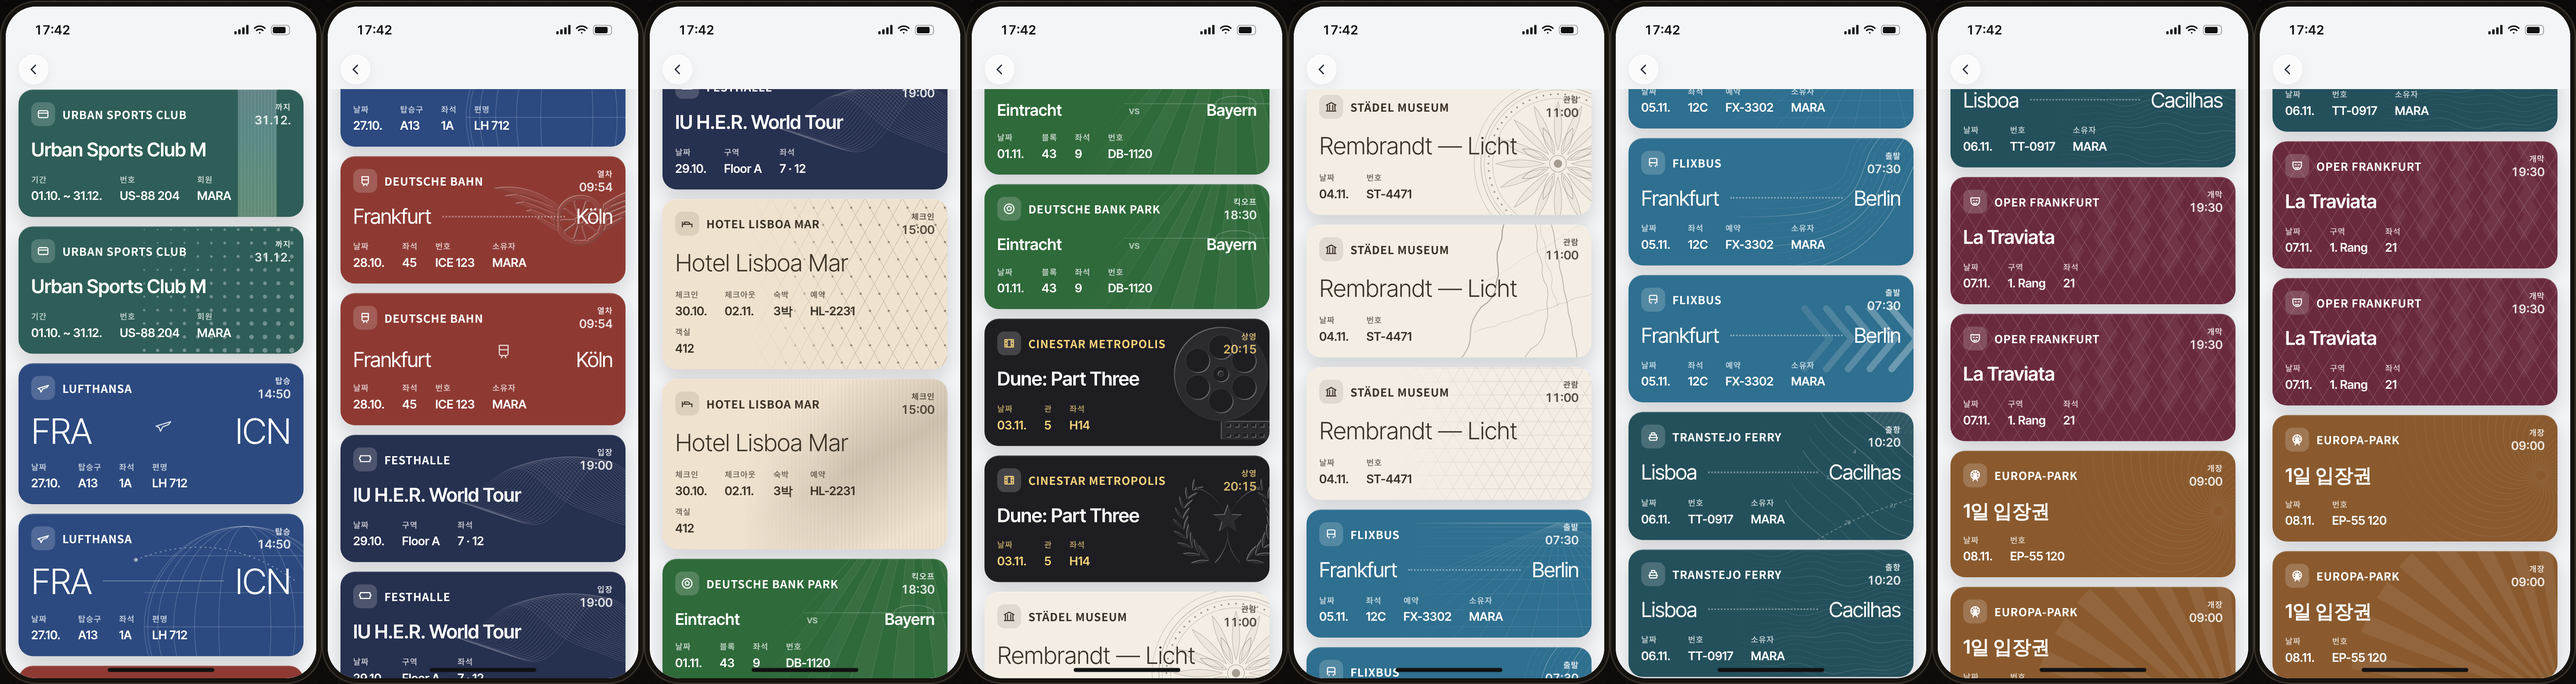
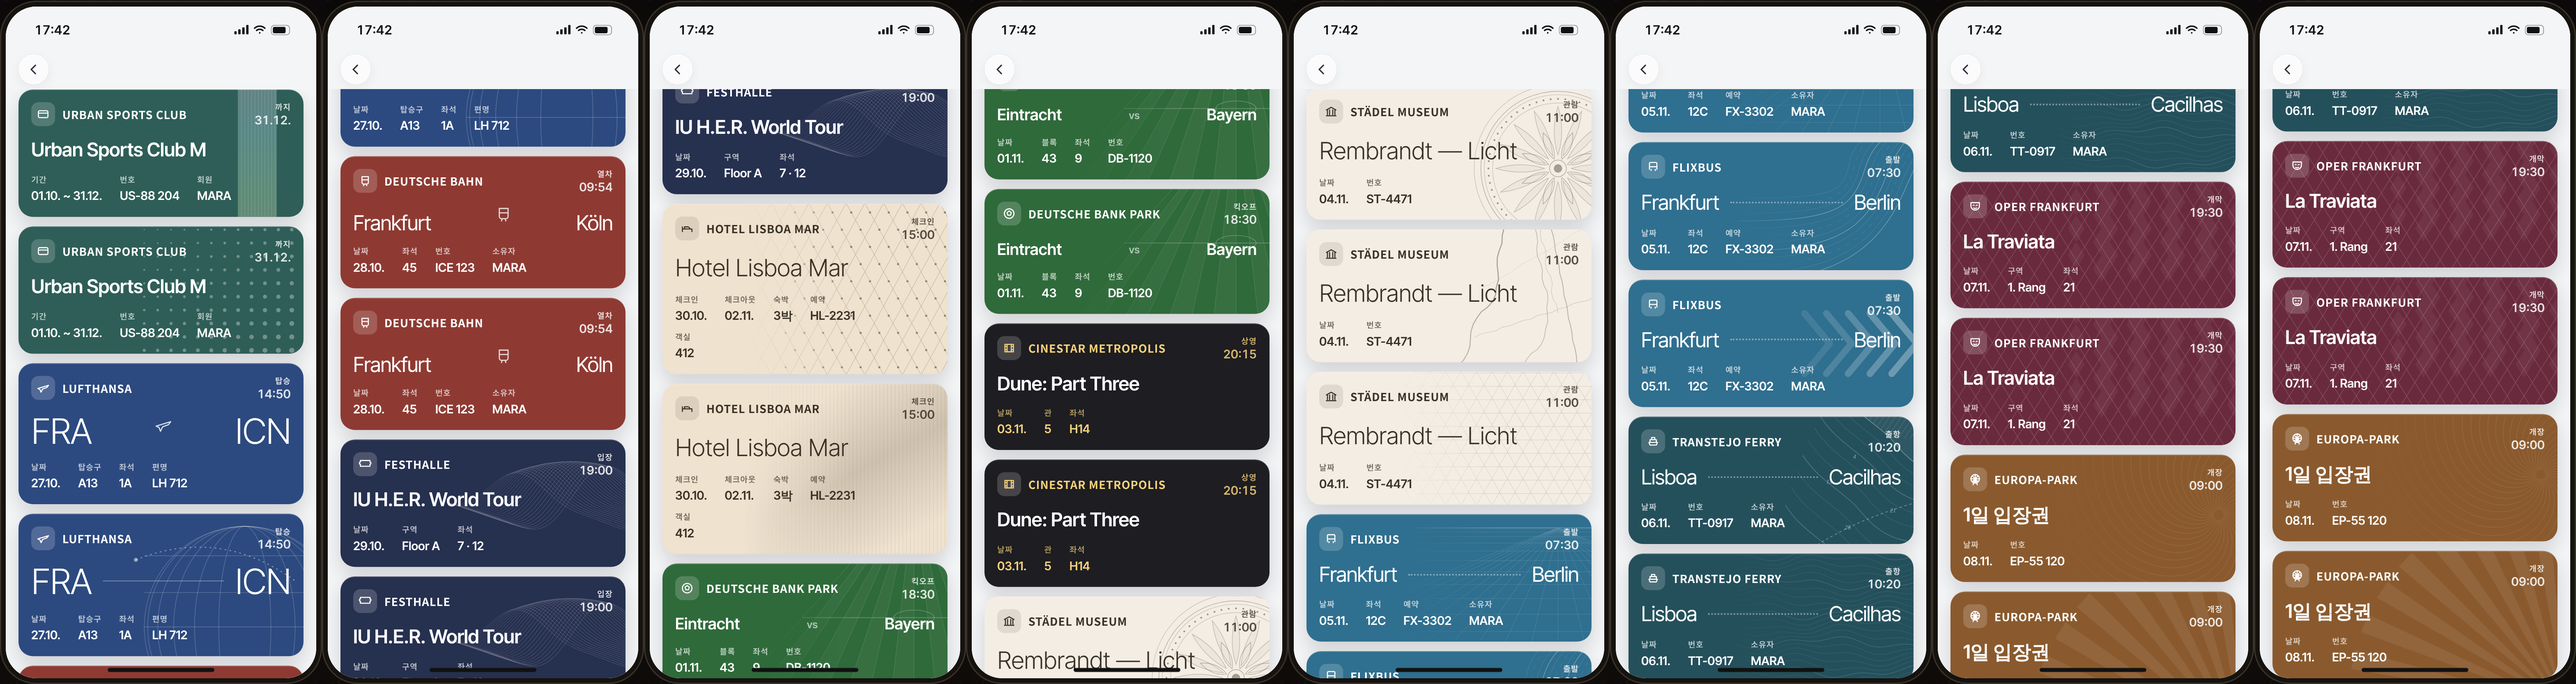
Wallet passes: take out the embossed marks, none was chosen; train and movie stay plain (draft, not approved yet)
Claude-Session: https://claude.ai/code/session_01TBUyc4nvbfrUF2uL1hRtAL

diff --git a/src/phonepassart.js b/src/phonepassart.js
@@ -21,17 +21,6 @@ const holo = (fg, op, u) => `<defs><linearGradient id="${u}h" x1="0" y1="0" x2="
 // ---- each kind a finely built texture of its own, faded in from the left so the words stay clear
 const fadeIn = (u, inner) => `<defs><linearGradient id="${u}f" x1="0" x2="1"><stop offset=".3" stop-color="#fff" stop-opacity="0"/><stop offset=".62" stop-color="#fff"/></linearGradient><mask id="${u}m"><rect x="-20" y="-20" width="400" height="260" fill="url(#${u}f)"/></mask></defs><g mask="url(#${u}m)">${inner}</g>`;
 const Z = (fg, op, k = 1, w = 0.7) => S(fg, op * k, w);
-// train: the winged wheel of the railways, spoked wheel between two swept wings of five feathers each
-const train = (fg, op, u) => { const cx = 286, cy = 100;
-    let d = disc(cx, cy, 30) + disc(cx, cy, 24) + disc(cx, cy, 7) + disc(cx, cy, 3);
-    for (let i = 0; i < 10; i++) { const a = i * PI / 5; d += bar(...pt(cx, cy, 6, a), ...pt(cx, cy, 25, a), 2.6); }
-    for (const s of [-1, 1]) for (let k = 0; k < 5; k++) { const bx = cx + s * 27, by = cy - 16 + k * 7, tx = cx + s * (104 - k * 13), ty = cy - 38 + k * 9, mx = (bx + tx) / 2;
-        d += `M${bx} ${r1(by - 2.6)}Q${r1(mx)} ${r1(ty - 8)} ${r1(tx)} ${r1(ty)}Q${r1(mx + s * 6)} ${r1(ty + 6)} ${bx} ${r1(by + 2.6)}Z`; }
-    return emb(u, fg, `<path d="${d}"/>`); };
-// concert: a studio microphone, the capsule with its grille, the yoke, the stand and its base
-const rings = (fg, op, u) => { const cx = 290; let g = `M${cx - 26} 46a26 26 0 0 1 52 0V96a26 26 0 0 1 -52 0Z`;
-    for (let i = 0; i < 7; i++) g += `M${cx - 17} ${40 + i * 9}h34v3.2h-34Z`;
-    return emb(u, fg, `<path d="${g}"/><path d="M${cx - 36} 82v14a36 36 0 0 0 72 0v-14" fill="none" stroke="#000" stroke-width="4"/><path d="M${cx - 2} 132h4v34h-4ZM${cx - 30} 166h60a4 4 0 0 1 0 8h-60a4 4 0 0 1 0 -8Z"/>`); };
 // concert: a sound ribbon, many sine lines in shifted phase twisting into one band
 const spots = (fg, op, u) => fadeIn(u, range(0, 26).map(j => { const ph = j * 0.12; return `<path d="M${range(0, 61).map(i => { const x = 130 + i * 5, t = i / 60; return `${r1(x)} ${r1(100 + (42 * sin(t * PI * 2.2 + ph) + 10 * cos(t * PI * 5 + ph * 2)) * sin(t * PI))}`; }).join('L')}" ${Z(fg, op, 1, 0.5)}/>`; }).join(''));
 // hotel: a tufted headboard, quilted lines with a button at each crossing
@@ -40,26 +29,10 @@ const windows = (fg, op, u) => { let d = '', dots = ''; for (let i = -8; i < 14;
     return fadeIn(u, P(d, Z(fg, op, 1, 0.5)) + dots); };
 // hotel: satin, fine pinstripes under one soft sheen
 const doors = (fg, op, u) => fadeIn(u, `<defs><linearGradient id="${u}s" x1="0" y1="0" x2="1" y2="1"><stop offset=".3" stop-color="${fg}" stop-opacity="0"/><stop offset=".55" stop-color="${fg}" stop-opacity="${r1(op * 0.7 * 100) / 100}"/><stop offset=".8" stop-color="${fg}" stop-opacity="0"/></linearGradient></defs><rect x="0" y="-10" width="400" height="220" fill="url(#${u}s)"/>` + P(range(0, 60).map(i => `M${130 + i * 4.5} -10V210`).join(''), Z(fg, op, 0.55, 0.4)));
-// match: a club crest, shield with an inner border, a star over a chevron, three small stars above
-const pitch = (fg, op, u) => { const sh = (x0, x1, y0, y1) => { const m = (x0 + x1) / 2; return `M${x0} ${y0}H${x1}V${y1 - 40}C${x1} ${y1 - 12} ${m + 16} ${y1 - 4} ${m} ${y1}C${m - 16} ${y1 - 4} ${x0} ${y1 - 12} ${x0} ${y1 - 40}Z`; };
-    const d = sh(244, 336, 44, 172) + sh(252, 328, 52, 162) + star(290, 92, 20, 8) + `M262 132L290 116L318 132V140L290 124L262 140Z` + star(266, 32, 6, 2.4) + star(290, 28, 7, 2.8) + star(314, 32, 6, 2.4);
-    return emb(u, fg, `<path d="${d}"/>`); };
 // match: the pitch seen from the stand, mown stripes in perspective with their fine edges
 const bowl = (fg, op, u) => { const vx = 300, vy = -60, x = (x0, y) => r1(vx + (x0 - vx) * (y - vy) / (210 - vy)); let st = '', ln = '';
     for (let i = 0; i < 16; i++) { const a = 60 + i * 30, b = a + 30, y0 = 20; ln += `M${x(a, y0)} ${y0}L${a} 210`; if (i % 2) st += `M${x(a, y0)} ${y0}L${a} 210H${b}L${x(b, y0)} ${y0}Z`; }
     return fadeIn(u, P(st, F(fg, 0.04)) + P(ln, Z(fg, op, 0.8, 0.5)) + P(`M${x(60, 20)} 20H${x(540, 20)}M${x(60, 90)} 90H${x(540, 90)}`, Z(fg, op, 1.3, 0.8)) + `<ellipse cx="${vx}" cy="90" rx="${r1((x(540, 90) - x(60, 90)) * 0.09)}" ry="9" ${Z(fg, op, 1.3, 0.8)}/>`); };
-// movie: a film reel, six windows round the hub, the strip running off it with its sprocket holes
-const beam = (fg, op, u) => { const cx = 282, cy = 90; let d = disc(cx, cy, 56) + disc(cx, cy, 9) + disc(cx, cy, 4);
-    for (let i = 0; i < 6; i++) { const [x, y] = pt(cx, cy, 32, i * PI / 3 + PI / 6); d += disc(x, y, 14); }
-    let s = `M${cx} ${cy + 56}H360V${cy + 78}H${cx}Z`; for (let i = 0; i < 8; i++) s += `M${cx + 6 + i * 10} ${cy + 59}h5v4h-5ZM${cx + 6 + i * 10} ${cy + 71}h5v4h-5Z`;
-    return emb(u, fg, `<path d="${d}"/><path d="${s}"/>`); };
-// movie: the festival laurel, two branches of paired leaves closing round a star
-const premiere = (fg, op, u) => { const cx = 290, cy = 100, R = 54; let d = star(cx, cy, 18, 7.5);
-    for (const s of [-1, 1]) { d += `M${M(pt(cx, cy, R - 1.2, PI / 2 + s * 0.28))}A${R - 1.2} ${R - 1.2} 0 0 ${s < 0 ? 1 : 0} ${M(pt(cx, cy, R - 1.2, PI / 2 + s * 2.35))}L${M(pt(cx, cy, R + 1.2, PI / 2 + s * 2.35))}A${R + 1.2} ${R + 1.2} 0 0 ${s < 0 ? 0 : 1} ${M(pt(cx, cy, R + 1.2, PI / 2 + s * 0.28))}Z`;
-        for (let k = 0; k < 9; k++) { const a = PI / 2 + s * (0.42 + k * 0.23), [x, y] = pt(cx, cy, R, a), tg = a + s * PI / 2, sz = 11 - k * 0.5;
-            for (const side of [-1, 1]) { const dir = tg + side * 0.55, [ex, ey] = [x + cos(dir) * sz * 2, y + sin(dir) * sz * 2], [mx, my] = [x + cos(dir) * sz, y + sin(dir) * sz], nx = -sin(dir) * sz * 0.38, ny = cos(dir) * sz * 0.38;
-                d += `M${r1(x)} ${r1(y)}Q${r1(mx + nx)} ${r1(my + ny)} ${r1(ex)} ${r1(ey)}Q${r1(mx - nx)} ${r1(my - ny)} ${r1(x)} ${r1(y)}Z`; } } }
-    return emb(u, fg, `<path d="${d}"/>`); };
 // museum: an isometric lattice, the floor of a gallery drawn in fine triangles
 const columns = (fg, op, u) => { let d = ''; const h = 16; for (let i = -20; i < 30; i++) d += `M${130 + i * h * 1.1547} -10l${r1(220 * 0.57735)} 220M${130 + i * h * 1.1547} 210l${r1(220 * 0.57735)} -220`; for (let y = -10; y < 214; y += h) d += `M130 ${y}H420`; return fadeIn(u, P(d, Z(fg, op, 0.8, 0.4))); };
 // museum: marble, veins branching in fine lines of a few weights
@@ -70,38 +43,10 @@ const route = (fg, op, u) => { const vx = 300, vy = 40, ts = range(1, 14).map(k 
 // bus: a motorway flyover from above, lanes sweeping round in parallel curves, the dashes between them
 const lanes = (fg, op, u) => { const lane = k => `M130 ${190 - k * 9}C250 ${190 - k * 9} ${300 - k * 4} ${150 - k * 6} ${330 - k * 6} ${80 - k * 3}S${380 - k * 6} -10 ${420} ${-20 + k * 6}`;
     return fadeIn(u, range(0, 12).map(k => P(lane(k), Z(fg, op, k % 4 === 0 ? 1.5 : 0.7, k % 4 === 0 ? 0.8 : 0.5) + (k % 4 === 2 ? ' stroke-dasharray="6 6"' : ''))).join('')); };
-// ferry: a ship's wheel, the rim, eight spokes running through to turned handles, the hub
-const waves = (fg, op, u) => { const cx = 290, cy = 100; let d = disc(cx, cy, 48) + disc(cx, cy, 40) + disc(cx, cy, 12) + disc(cx, cy, 5);
-    for (let i = 0; i < 8; i++) { const a = i * PI / 4; d += bar(...pt(cx, cy, 11, a), ...pt(cx, cy, 41, a), 4) + bar(...pt(cx, cy, 47, a), ...pt(cx, cy, 58, a), 4.5);
-        const [x, y] = pt(cx, cy, 66, a); d += `M${M(pt(cx, cy, 58, a + 0.1))}L${M(pt(cx, cy, 58, a - 0.1))}L${M(pt(x, y, 4.5, a - PI / 2))}A4.5 4.5 0 0 1 ${M(pt(x, y, 4.5, a + PI / 2))}Z`; }
-    return emb(u, fg, `<path d="${d}"/>`); };
 // ferry: water seen from above, swell drawn as many fine lines that ride over one another
 const depths = (fg, op, u) => fadeIn(u, range(0, 34).map(r => { const y0 = -10 + r * 7; return `<path d="M${range(0, 55).map(i => { const x = 130 + i * 5; return `${x} ${r1(y0 + 5 * sin(x * 0.035 + r * 0.45) + 3 * sin(x * 0.09 - r * 0.3))}`; }).join('L')}" ${Z(fg, op, r % 5 === 0 ? 1.2 : 0.6, 0.45)}/>`; }).join(''));
-// theater: a lyre, two curving arms, the crossbar, five strings and the base
-const arches = (fg, op, u) => { const cx = 290; let arms = '';
-    for (const s of [-1, 1]) arms += `M${cx + s * 10} 160C${cx + s * 40} 154 ${cx + s * 46} 116 ${cx + s * 34} 92C${cx + s * 26} 76 ${cx + s * 30} 56 ${cx + s * 44} 46`;
-    const strings = range(0, 5).map(i => `M${cx - 12 + i * 6} 72V156`).join('');
-    return emb(u, fg, `<path d="${arms}" fill="none" stroke="#000" stroke-width="6" stroke-linecap="round"/><path d="M${cx - 44} 66h88v6h-88Z"/><path d="${strings}" fill="none" stroke="#000" stroke-width="1.4"/><path d="M${cx - 26} 156h52a5 5 0 0 1 0 10h-52a5 5 0 0 1 0 -10Z"/>`
-        + `<path d="${disc(cx - 44, 44, 5) + disc(cx + 44, 44, 5)}"/>`); };
-// theater: the proscenium, an arch on two fluted pilasters with a keystone, over the stage step
-const diamonds = (fg, op, u) => { const cx = 282, w = 42, top = 100;
-    let d = `M${cx - w - 10} 168V${top}A${w + 10} ${w + 10} 0 0 1 ${cx + w + 10} ${top}V168H${cx + w}V${top}A${w} ${w} 0 0 0 ${cx - w} ${top}V168Z` + `M${cx - 8} ${top - w - 12}h16l-3 16h-10Z`;
-    for (const s of [-1, 1]) { const x = cx + s * (w + 5); d += `M${x - 9} 168h18v4h-18Z`; for (let i = 0; i < 3; i++) d += `M${x - 5 + i * 4} ${top + 6}h1.6v${158 - top}h-1.6Z`; }
-    return emb(u, fg, `<path d="${d}"/><path d="M${cx - w - 22} 174h${2 * w + 44}v6h-${2 * w + 44}Z"/>`); };
 // theme park: a swirl, many fine lines turning out from one point like a spinning ride
 const wheel = (fg, op, u) => { const cx = 320, cy = 96; return fadeIn(u, range(0, 36).map(j => { const a0 = j * PI / 18; return `<path d="M${range(0, 41).map(i => { const t = i / 40, r = 6 + t * 190, a = a0 + t * 2.6; return M(pt(cx, cy, r, a)); }).join('L')}" ${Z(fg, op, 0.7, 0.45)}/>`; }).join('')); };
-// theme park: a scalloped seal, a ring inside and a star at its heart, like the stamp on a day pass
-const coaster = (fg, op, u) => { const cx = 290, cy = 100; let o = '';
-    for (let i = 0; i < 28; i++) { const a = i * PI / 14, b = (i + 1) * PI / 14; o += `${i ? '' : `M${M(pt(cx, cy, 60, a))}`}Q${M(pt(cx, cy, 68, (a + b) / 2))} ${M(pt(cx, cy, 60, b))}`; }
-    return emb(u, fg, `<path d="${o}Z${disc(cx, cy, 50)}${disc(cx, cy, 46)}${star(cx, cy, 30, 12)}"/>`); };
-// ---- embossed emblems: one carefully built mark per kind, pressed into the card (a lit edge, a shadowed edge, a faint face)
-const emb = (u, fg, inner) => `<defs><filter id="${u}x" x="-20%" y="-20%" width="140%" height="140%"><feFlood flood-color="${fg}" flood-opacity=".06"/><feComposite in2="SourceAlpha" operator="in" result="F"/>`
-    + `<feOffset in="SourceAlpha" dx=".9" dy=".9" result="a"/><feComposite in="SourceAlpha" in2="a" operator="out" result="ha"/><feFlood flood-color="#fff" flood-opacity=".3"/><feComposite in2="ha" operator="in" result="H"/>`
-    + `<feOffset in="SourceAlpha" dx="-.9" dy="-.9" result="b"/><feComposite in="SourceAlpha" in2="b" operator="out" result="sa"/><feFlood flood-color="#000" flood-opacity=".34"/><feComposite in2="sa" operator="in" result="L"/>`
-    + `<feMerge><feMergeNode in="F"/><feMergeNode in="H"/><feMergeNode in="L"/></feMerge></filter></defs><g filter="url(#${u}x)" fill="#000" fill-rule="evenodd">${inner}</g>`;
-const disc = (cx, cy, r) => `M${r1(cx - r)} ${cy}a${r} ${r} 0 1 0 ${r1(2 * r)} 0a${r} ${r} 0 1 0 ${r1(-2 * r)} 0Z`;
-const star = (cx, cy, R, r, n = 5, rot = -PI / 2) => `M${range(0, n * 2).map(i => M(pt(cx, cy, i % 2 ? r : R, rot + i * PI / n))).join('L')}Z`;
-const bar = (x0, y0, x1, y1, w) => { const dx = x1 - x0, dy = y1 - y0, Ln = Math.hypot(dx, dy), nx = -dy / Ln * w / 2, ny = dx / Ln * w / 2; return `M${r1(x0 + nx)} ${r1(y0 + ny)}L${r1(x1 + nx)} ${r1(y1 + ny)}L${r1(x1 - nx)} ${r1(y1 - ny)}L${r1(x0 - nx)} ${r1(y0 - ny)}Z`; };
 // theater: a harlequin of tall diamonds, every other one shaded (chosen from mockup 10)
 const harlequin = (fg, op) => {
     const w = 20, h = 32; let fill = '';
@@ -134,10 +79,9 @@ const chevrons = (fg, op) => range(0, 5).map(i => `<path d="M${210 + i * 26} 64L
 // theme park: a sunburst from the bottom right corner, every other ray filled (chosen from mockup 10)
 const sunburst = (fg, op) => range(0, 9).map(i => { const a0 = PI + i * PI / 18, a1 = a0 + PI / 36; return `<path d="M350 210L${M(pt(350, 210, 260, a0))}L${M(pt(350, 210, 260, a1))}Z" fill="${fg}" fill-opacity="${r1(op * 0.35 * 100) / 100}"/>`; }).join('');
 const LN = (fg, op, k, w) => `stroke="${fg}" stroke-opacity="${r1(op * k * 100) / 100}" stroke-width="${w}" fill="none"`;
-// what 소망 chose, kind by kind; null is the plain look (no drawing). The train and movie marks and the concert, match and theater
-// singles are the only ones not circled yet
-const MOTIF = { flight: [flight, null], train: [train, null], membership: [dots, holo], other: [dots], concert: [spots], hotel: [windows, doors], match: [bowl],
-    movie: [beam, premiere], museum: [rosette, columns, rosetteP], bus: [route, lanes, chevrons], ferry: [depths, seaChart], theater: [harlequin], park: [wheel, sunburst] };
+// what 소망 chose, kind by kind; null is the plain look (no drawing). The train and the movie have no drawing chosen yet
+const MOTIF = { flight: [flight, null], train: [null], membership: [dots, holo], other: [dots], concert: [spots], hotel: [windows, doors], match: [bowl],
+    movie: [null], museum: [rosette, columns, rosetteP], bus: [route, lanes, chevrons], ferry: [depths, seaChart], theater: [harlequin], park: [wheel, sunburst] };
 const seedOf = id => [...String(id || '')].reduce((h, c) => h + c.charCodeAt(0), 0);
 export function passMotif(k, fg, op, id) {
     const xs = MOTIF[k] || MOTIF.other, f = xs[seedOf(id) % xs.length];

diff --git a/docs/DESIGN.md b/docs/DESIGN.md
@@ -234,7 +234,7 @@
   - `cardArt` / `cardLook`예요. 은행 색은 `BANK_C`(은행 이름 해시로 고름)예요. **목록에서 하나를 빼면 다른 은행 색이 전부 밀려요.** 빼지 말고 자리에 다른 색을 넣어요.
   - 무늬 `PATS`도 같아요. 사선 줄무늬는 빼고 그 자리에 물결을 넣었어요.
 - 표가 끝났는지는 `PASS_OVER`(phonesyncmoney.js)로 봐요("미사용 · 환불 불가"는 안 끝남). 날짜를 모르는 표(`dayUnknown`)는 "날짜 미정", 날짜로 지난 표가 되지 않아요. 표 이름은 `by || to`. 숙박 · 회원권은 `until`까지(체크인 ~ 체크아웃, 회원권은 "까지 31.12."), 지난 건 `until`이 지나야. 캘린더는 표를 복사하지 않고 그때그때 읽어요(숙박은 날마다 점, 긴 회원권은 첫날 · 끝날 점 + 기간 동안 "오늘"에).
-- 패스 그림은 `passArt`예요. 종류는 `passKind`가 낱말로 정해요(12종: 항공 · 기차 · 버스 · 배 · 숙소 · 콘서트 · 공연 · 영화 · 경기 · 전시 · 놀이공원 · 회원권, 그 밖은 티켓). **배치는 모든 표가 메인 지갑 그대로(표마다 · 모습마다 배치가 달라지면 안 돼요, 크게 혼났어요).** 색은 원래 지갑 색(`PASS`). 뒤 무늬는 `src/phonepassart.js`, 소망이 시안(`docs/mockups/phone-passes/`)에서 동그라미 친 것만 있어요. 종류마다 1~3개, 표 id 글자 합으로 골라요(이웃한 id끼리 번갈아요). 항공 · 기차 둘째는 무늬 없는 모습(두 곳 사이에 비행기 · 기차 아이콘, 지구본 항공권은 아이콘 대신 가는 선). QR이 있는 상세 표에는 무늬가 없어요. 무늬를 새로 그릴 때: 회원권(홀로그램 띠 · 점 그라데이션) · 항공권(지구본)과 같은 **완성도와 고급스러움**으로, 실제 모바일 티켓처럼. 그 무늬들의 기법을 베끼면 안 되고, 가는 선만 잔뜩 · PPT 같은 도형 · 클립아트 장면 · 글자를 가리는 그림은 다 퇴짜였어요.
+- 패스 그림은 `passArt`예요. 종류는 `passKind`가 낱말로 정해요(12종: 항공 · 기차 · 버스 · 배 · 숙소 · 콘서트 · 공연 · 영화 · 경기 · 전시 · 놀이공원 · 회원권, 그 밖은 티켓). **배치는 모든 표가 메인 지갑 그대로(표마다 · 모습마다 배치가 달라지면 안 돼요, 크게 혼났어요).** 색은 원래 지갑 색(`PASS`). 뒤 무늬는 `src/phonepassart.js`, 소망이 시안(`docs/mockups/phone-passes/`)에서 동그라미 친 것만 있어요. 종류마다 1~3개, 표 id 글자 합으로 골라요(이웃한 id끼리 번갈아요). 항공 둘째 · 기차 · 영화는 무늬 없는 모습(두 곳 사이에 비행기 · 기차 아이콘, 지구본 항공권은 아이콘 대신 가는 선). 엠보싱 문장(시안 13)은 하나도 안 골랐는데 넣었다가 혼났어요 — 동그라미 안 친 건 넣지 않아요. QR이 있는 상세 표에는 무늬가 없어요. 무늬를 새로 그릴 때: 회원권(홀로그램 띠 · 점 그라데이션) · 항공권(지구본)과 같은 **완성도와 고급스러움**으로, 실제 모바일 티켓처럼. 그 무늬들의 기법을 베끼면 안 되고, 가는 선만 잔뜩 · PPT 같은 도형 · 클립아트 장면 · 글자를 가리는 그림은 다 퇴짜였어요.
 
 ### 날씨
 - 하늘
